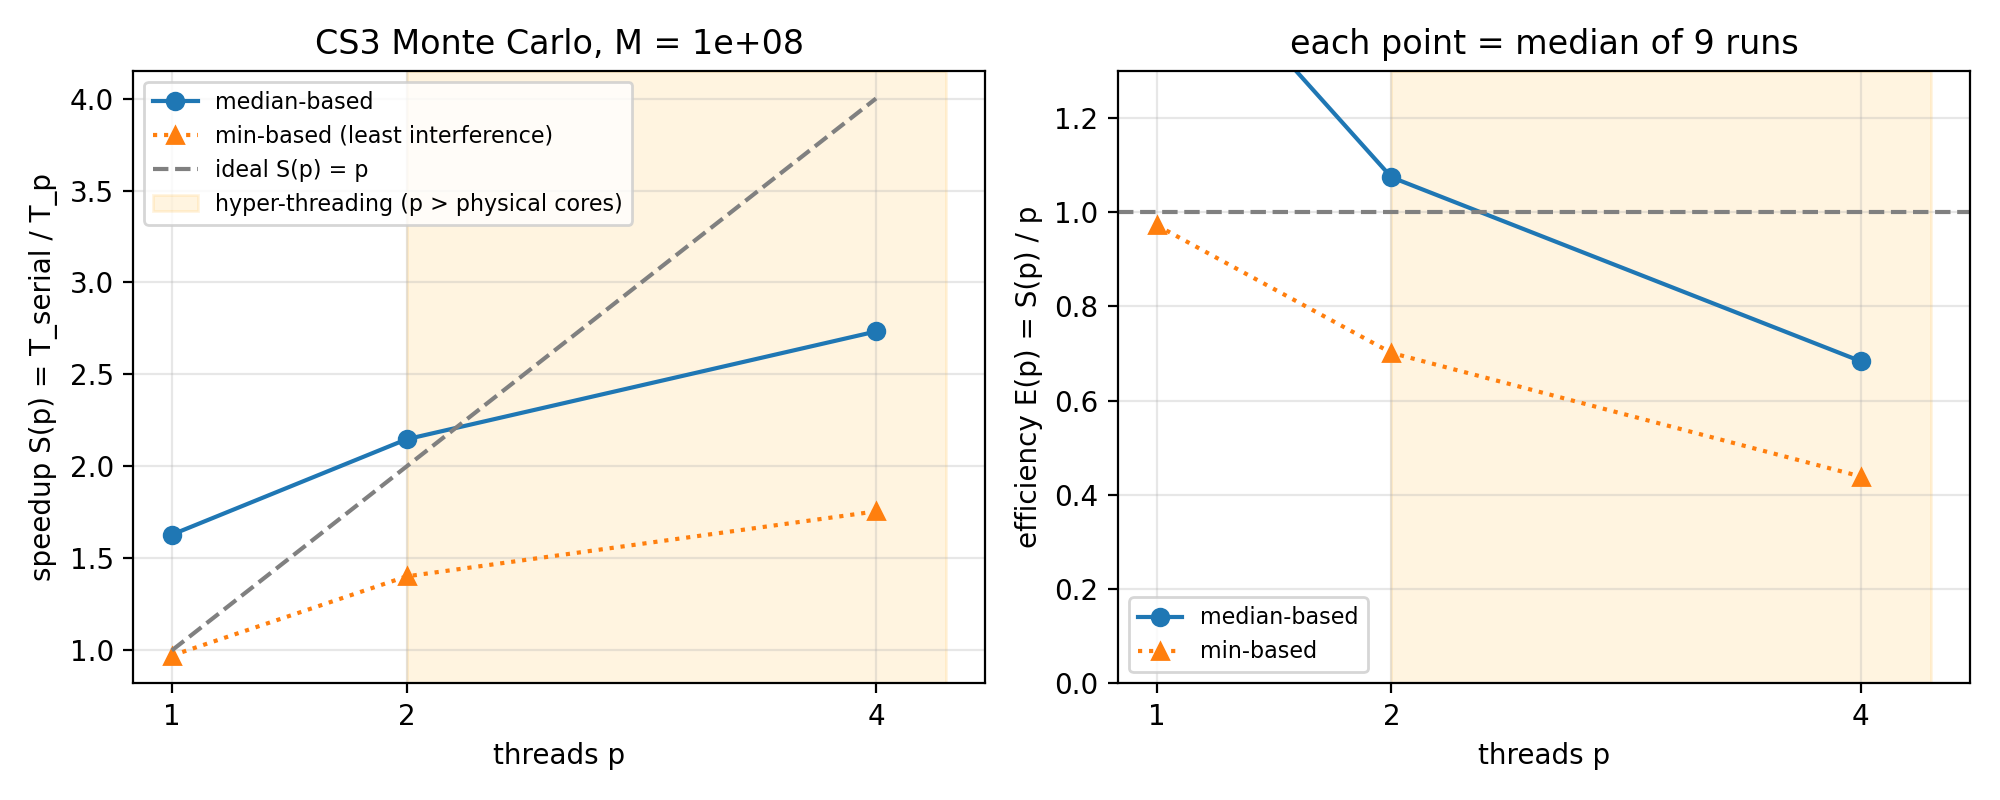
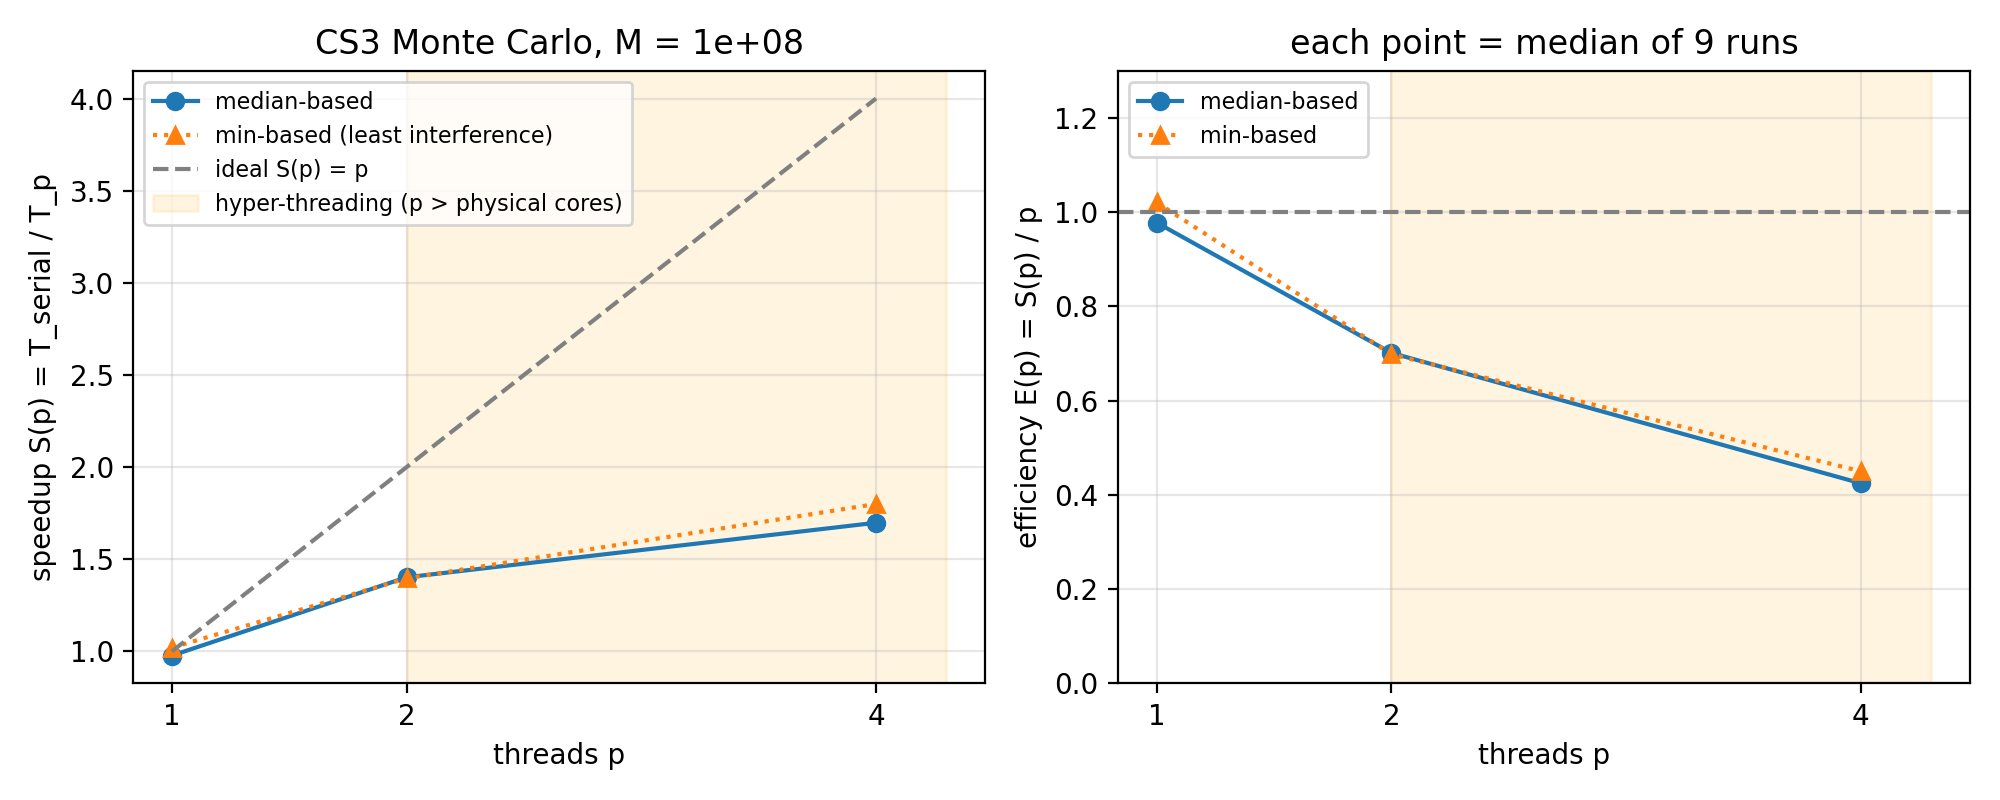
CS3: rerun with one thread per physical core

diff --git a/cs3_montecarlo/analyze.py b/cs3_montecarlo/analyze.py
@@ -55,17 +55,28 @@ for p in ps:
         f = (1 / S[p] - 1 / p) / (1 - 1 / p)
         fm = (1 / Smin[p] - 1 / p) / (1 - 1 / p)
         lines.append(f"- p = {p}: f = {f:.3f} (median-based), {fm:.3f} (min-based)")
+lines += ["", f"Thread placement: OMP_PLACES=cores, OMP_PROC_BIND=close -> p <= {PHYS_CORES} uses one thread "
+          f"per physical core; p = 4 puts two hyper-threads on each core."]
 
 # ---------- fixed-time accuracy ----------
 try:
     ft = read("fixed_time.csv")
-    lines += ["", "## Fixed-time runs (accuracy per second)", "",
-              "| p | samples M | time (s) | price | std. error | deviation from BS (in SE) |",
-              "|---|---|---|---|---|---|"]
+    by_p = defaultdict(list)
     for r in ft:
-        se, pr = float(r["se"]), float(r["price"])
-        lines.append(f"| {r['p']} | {int(r['M']):,} | {float(r['time']):.3f} | {pr:.6f} | "
-                     f"{se:.6f} | {abs(pr - BS_PRICE) / se:.2f} |")
+        by_p[int(r["p"])].append(r)
+    se1 = float(by_p[min(by_p)][0]["se"])
+    M1 = int(by_p[min(by_p)][0]["M"])
+    lines += ["", "## Fixed-time runs (M_p chosen to finish in the serial best time)", "",
+              f"SE depends only on M and the seed, so it is identical in every round. "
+              f"Target time = serial minimum = {T1min:.3f} s.", "",
+              "| p | samples M | SE | SE_1 / SE_p | sqrt(M_p / M_1) | median time (s) | min time (s) | price | deviation from BS (in SE) |",
+              "|---|---|---|---|---|---|---|---|---|"]
+    for p in sorted(by_p):
+        rs = by_p[p]
+        se, pr, Mp = float(rs[0]["se"]), float(rs[0]["price"]), int(rs[0]["M"])
+        ts = [float(r["time"]) for r in rs]
+        lines.append(f"| {p} | {Mp:,} | {se:.7f} | {se1 / se:.3f} | {math.sqrt(Mp / M1):.3f} | "
+                     f"{statistics.median(ts):.3f} | {min(ts):.3f} | {pr:.6f} | {abs(pr - BS_PRICE) / se:.2f} |")
 except FileNotFoundError:
     pass
 

diff --git a/cs3_montecarlo/results/tables.md b/cs3_montecarlo/results/tables.md
@@ -1,33 +1,37 @@
 ## Strong scaling (M fixed)
 
-Median of 9 interleaved runs. Speedup is relative to the serial baseline (T1 = 10.220 s). p > 2 uses hyper-threading.
+Median of 9 interleaved runs. Speedup is relative to the serial baseline (T1 = 4.362 s). p > 2 uses hyper-threading.
 
 | version | p | median time (s) | min | max | spread max/min | S(p) median | E(p) median | S(p) from min | E(p) from min |
 |---|---|---|---|---|---|---|---|---|---|
-| serial | 1 | 10.220 | 4.504 | 17.153 | 3.81 | 1.00 | 1.00 | 1.00 | 1.00 |
-| parallel | 1 | 6.272 | 4.634 | 11.508 | 2.48 | 1.63 | 1.63 | 0.97 | 0.97 |
-| parallel | 2 | 4.758 | 3.211 | 8.204 | 2.55 | 2.15 | 1.07 | 1.40 | 0.70 |
-| parallel | 4 | 3.738 | 2.565 | 5.334 | 2.08 | 2.73 | 0.68 | 1.76 | 0.44 |
+| serial | 1 | 4.362 | 4.261 | 5.385 | 1.26 | 1.00 | 1.00 | 1.00 | 1.00 |
+| parallel | 1 | 4.462 | 4.176 | 4.621 | 1.11 | 0.98 | 0.98 | 1.02 | 1.02 |
+| parallel | 2 | 3.110 | 3.051 | 4.475 | 1.47 | 1.40 | 0.70 | 1.40 | 0.70 |
+| parallel | 4 | 2.568 | 2.367 | 3.488 | 1.47 | 1.70 | 0.42 | 1.80 | 0.45 |
 
 Experimentally determined serial fraction (Karp-Flatt), f = (1/S - 1/p) / (1 - 1/p):
 
-- p = 2: f = -0.069 (median-based), 0.426 (min-based)
-- p = 4: f = 0.154 (median-based), 0.426 (min-based)
+- p = 2: f = 0.426 (median-based), 0.432 (min-based)
+- p = 4: f = 0.452 (median-based), 0.407 (min-based)
 
-## Fixed-time runs (accuracy per second)
+Thread placement: OMP_PLACES=cores, OMP_PROC_BIND=close -> p <= 2 uses one thread per physical core; p = 4 puts two hyper-threads on each core.
 
-| p | samples M | time (s) | price | std. error | deviation from BS (in SE) |
-|---|---|---|---|---|---|
-| 1 | 162,938,100 | 21.267 | 10.451436 | 0.001153 | 0.74 |
-| 2 | 214,779,944 | 10.220 | 10.450896 | 0.001004 | 0.31 |
-| 4 | 273,377,754 | 10.402 | 10.451716 | 0.000890 | 1.27 |
+## Fixed-time runs (M_p chosen to finish in the serial best time)
+
+SE depends only on M and the seed, so it is identical in every round. Target time = serial minimum = 4.261 s.
+
+| p | samples M | SE | SE_1 / SE_p | sqrt(M_p / M_1) | median time (s) | min time (s) | price | deviation from BS (in SE) |
+|---|---|---|---|---|---|---|---|---|
+| 1 | 102,043,462 | 0.0014574 | 1.000 | 1.000 | 5.023 | 4.376 | 10.451644 | 0.73 |
+| 2 | 139,666,278 | 0.0012457 | 1.170 | 1.170 | 4.469 | 4.391 | 10.451464 | 0.71 |
+| 4 | 180,021,974 | 0.0010971 | 1.328 | 1.328 | 5.045 | 4.369 | 10.452038 | 1.33 |
 
 ## RNG strategies
 
 | mode | p | M | time (s) | M samples/s | price | reported SE | true SE* |
 |---|---|---|---|---|---|---|---|
-| jump | 4 | 100,000,000 | 6.378 | 15.68 | 10.451660 | 0.001472 | 0.001472 |
-| shared | 4 | 20,000,000 | 5.244 | 3.81 | 10.452101 | 0.003292 | 0.003292 |
-| sameseed | 4 | 100,000,000 | 7.283 | 13.73 | 10.452449 | 0.001472 | 0.002945 |
+| jump | 4 | 100,000,000 | 2.468 | 40.52 | 10.451660 | 0.001472 | 0.001472 |
+| shared | 4 | 20,000,000 | 2.234 | 8.95 | 10.452101 | 0.003292 | 0.003292 |
+| sameseed | 4 | 100,000,000 | 2.437 | 41.03 | 10.452449 | 0.001472 | 0.002945 |
 
 *sameseed: all p threads replay one stream, so only M/p samples are independent and the true SE is sqrt(p) times the reported one.
